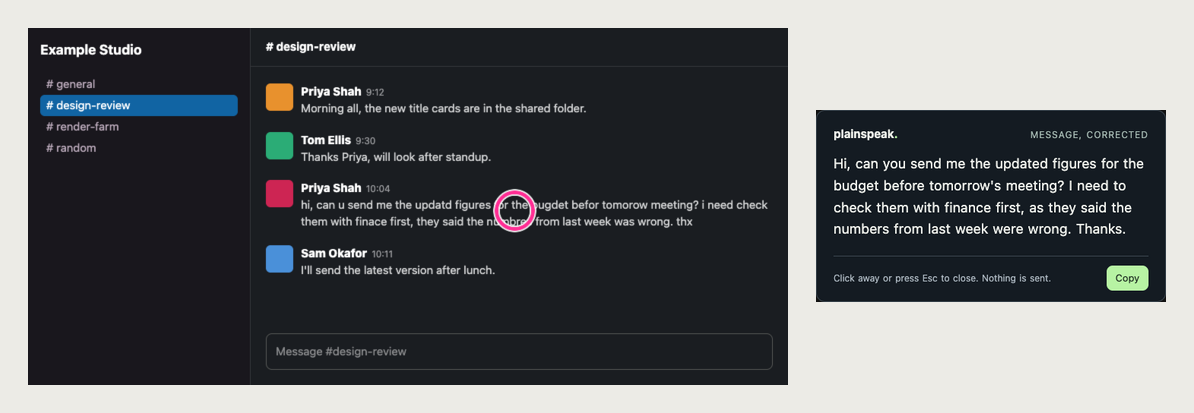
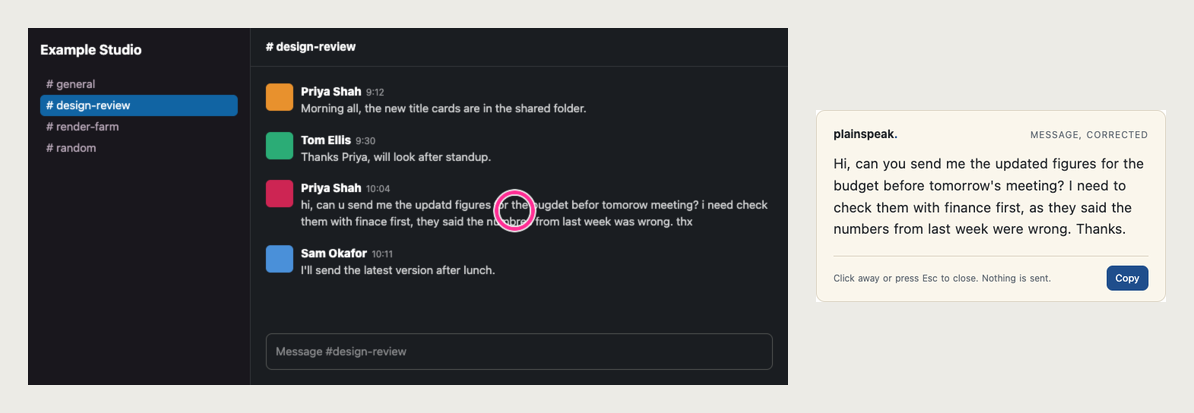
feat: light panel colours, the new default
- dark text on off-white with dark-blue labels, following the BDA style guide's colour advice (no green or red)
- choose Light, Dark or Match macOS under Panel colours in Settings; each answer carries the choice
- regenerate the README screenshots in the light theme and drop the dark-only limit

Changed region(s): [[0.6817, 0.2615, 0.9916, 0.7554]]

diff --git a/src/overlay.html b/src/overlay.html
@@ -3,15 +3,19 @@
 <style>
 /* Reading layout follows the British Dyslexia Association style guide: sans serif, line spacing of 1.5 or more,
    slightly wider letter and word spacing, short left-aligned paragraphs with clear gaps, bold rather than italics.
+   The light colours follow its colour advice too: dark text on off-white, and no green or red.
    The page itself is transparent so the app's borderless panel shows the rounded card. */
-:root{color-scheme:dark}*{box-sizing:border-box}html,body{margin:0;background:transparent}
-#card{min-height:100vh;padding:18px 22px 14px;background:#141b22;color:#eceee9;border:1px solid #3c4851;border-radius:12px;font:18px/1.6 system-ui,sans-serif;letter-spacing:.02em;word-spacing:.06em}
-header{display:flex;justify-content:space-between;align-items:baseline;gap:12px}strong.brand{font-size:15px;letter-spacing:0}small{color:#a6bab3;font-size:12px;letter-spacing:1px;text-transform:uppercase}
-#status{color:#b7f3a3;margin:14px 0 0}#status:empty{display:none}#result{margin-top:14px;overflow-wrap:anywhere}#result p,#result ul{margin:0 0 1.1em}#result ul{padding-left:1.2em}#result li{margin-bottom:.4em}#result strong{color:#b7f3a3;font-weight:600}
-footer{display:flex;justify-content:space-between;align-items:center;gap:12px;border-top:1px solid #3c4851;padding-top:12px;color:#acb7c0;font-size:12px;letter-spacing:0}
-button{background:#b7f3a3;color:#132018;border:0;border-radius:8px;padding:6px 12px;font:inherit;font-size:13px;cursor:pointer}button:disabled{opacity:.4}
+:root{color-scheme:light;--bg:#faf6ec;--text:#1f2328;--line:#d8d0bf;--muted:#5d6670;--accent:#1f4e8c;--button:#1f4e8c;--button-text:#fff}
+:root[data-theme=dark]{color-scheme:dark;--bg:#141b22;--text:#eceee9;--line:#3c4851;--muted:#a6bab3;--accent:#b7f3a3;--button:#b7f3a3;--button-text:#132018}
+@media (prefers-color-scheme:dark){:root[data-theme=system]{color-scheme:dark;--bg:#141b22;--text:#eceee9;--line:#3c4851;--muted:#a6bab3;--accent:#b7f3a3;--button:#b7f3a3;--button-text:#132018}}
+*{box-sizing:border-box}html,body{margin:0;background:transparent}
+#card{min-height:100vh;padding:18px 22px 14px;background:var(--bg);color:var(--text);border:1px solid var(--line);border-radius:12px;font:18px/1.6 system-ui,sans-serif;letter-spacing:.02em;word-spacing:.06em}
+header{display:flex;justify-content:space-between;align-items:baseline;gap:12px}strong.brand{font-size:15px;letter-spacing:0}strong.brand span{color:var(--accent)}small{color:var(--muted);font-size:12px;letter-spacing:1px;text-transform:uppercase}
+#status{color:var(--accent);margin:14px 0 0}#status:empty{display:none}#result{margin-top:14px;overflow-wrap:anywhere}#result p,#result ul{margin:0 0 1.1em}#result ul{padding-left:1.2em}#result li{margin-bottom:.4em}#result strong{color:var(--accent);font-weight:700}
+footer{display:flex;justify-content:space-between;align-items:center;gap:12px;border-top:1px solid var(--line);padding-top:12px;color:var(--muted);font-size:12px;letter-spacing:0}
+button{background:var(--button);color:var(--button-text);border:0;border-radius:8px;padding:6px 12px;font:inherit;font-size:13px;cursor:pointer}button:disabled{opacity:.4}
 </style>
-<main id="card"><header><strong class="brand">plainspeak<span style="color:#b7f3a3">.</span></strong><small id="mode">Personal overlay</small></header><p id="status" role="status">Reading…</p><div id="result"></div><footer><span>Click away or press Esc to close. Nothing is sent.</span><button id="copy" disabled>Copy</button></footer></main>
+<main id="card"><header><strong class="brand">plainspeak<span>.</span></strong><small id="mode">Personal overlay</small></header><p id="status" role="status">Reading…</p><div id="result"></div><footer><span>Click away or press Esc to close. Nothing is sent.</span><button id="copy" disabled>Copy</button></footer></main>
 <script>
 // Fragment credentials are not sent in the URL request or Referer.
 const params=new URLSearchParams(location.hash.slice(1)),id=params.get('id'),token=params.get('token');
@@ -38,6 +42,7 @@ function render(value,mode){
 }
 async function poll(){
  try{const r=await fetch('/result/'+id,{headers:{Authorization:'Bearer '+token}});const data=await r.json();if(!r.ok)throw Error(data.error);
+ document.documentElement.dataset.theme=data.theme||'light';
  document.getElementById('mode').textContent=data.mode==='draft'?'Your words, corrected':data.mode==='correct'?'Message, corrected':'What they mean';
  if(data.state!=='pending'){stopped=true;text=data.text;render(text,data.mode);status.textContent=data.state==='done'?'':'Needs attention';copy.disabled=data.state!=='done';if(data.state==='done'&&data.mode==='draft')bridge('copy',text)}
  else if(data.text&&data.text!==shown){shown=data.text;render(shown,data.mode);status.textContent='Writing…';fit()} // streamed partial answer

diff --git a/src/settings.html b/src/settings.html
@@ -2,7 +2,9 @@
 <html lang="en-GB"><meta charset="utf-8"><meta name="viewport" content="width=device-width,initial-scale=1"><title>Plainspeak settings</title>
 <style>
 /* Same look as the panel, and the same reading rules: sans serif, 1.6 line spacing, short blocks with clear gaps, bold not italics. */
-:root{color-scheme:dark;--bg:#141b22;--card:#1b242d;--field:#0f151b;--line:#3c4851;--text:#eceee9;--muted:#a6bab3;--accent:#b7f3a3;--bad:#ffb4a8}
+:root{color-scheme:light;--bg:#faf6ec;--card:#fffcf4;--field:#fdfaf2;--line:#d8d0bf;--text:#1f2328;--muted:#5d6670;--accent:#1f4e8c;--bad:#8a3d00}
+:root[data-theme=dark]{color-scheme:dark;--bg:#141b22;--card:#1b242d;--field:#0f151b;--line:#3c4851;--text:#eceee9;--muted:#a6bab3;--accent:#b7f3a3;--bad:#ffb4a8}
+@media (prefers-color-scheme:dark){:root[data-theme=system]{color-scheme:dark;--bg:#141b22;--card:#1b242d;--field:#0f151b;--line:#3c4851;--text:#eceee9;--muted:#a6bab3;--accent:#b7f3a3;--bad:#ffb4a8}}
 *{box-sizing:border-box}body{margin:0;background:var(--bg);color:var(--text);font:17px/1.6 system-ui,sans-serif;letter-spacing:.02em;word-spacing:.06em}
 main{max-width:780px;margin:0 auto;padding:24px 28px 60px}
 header{display:flex;justify-content:space-between;align-items:baseline;gap:16px;position:sticky;top:0;background:var(--bg);padding:12px 0;border-bottom:1px solid var(--line);z-index:2}
@@ -28,6 +30,7 @@ button.add{border-style:dashed;color:var(--accent);border-color:var(--accent)}bu
 
 <h2>When I read a message</h2><p class="help">How the panel explains a message (back side button).</p><div class="choices" id="read"></div>
 <h2>When I correct my own draft</h2><p class="help">How your selected text is rewritten (Control + Option + Command + D).</p><div class="choices" id="draft"></div>
+<h2>Panel colours</h2><p class="help">Light is dark text on off-white, which the British Dyslexia Association recommends.</p><div class="choices" id="theme"></div>
 <h2>Answer length</h2><p class="help">An upper limit. Styles are usually shorter.</p>
 <label class="row">Use at most <input type="number" class="short" id="max_lines" min="1" max="30"> lines</label>
 
@@ -64,7 +67,11 @@ function save(){
  },500);
 }
 
+const THEMES=[{id:'light',name:'Light',description:'Dark text on off-white.'},{id:'dark',name:'Dark',description:'Light text on dark blue-grey.'},{id:'system',name:'Match macOS',description:'Light or dark, as your Mac is set.'}];
 function renderChoices(){
+ document.documentElement.dataset.theme=model.theme;
+ const themes=document.getElementById('theme');themes.replaceChildren();
+ for(const t of THEMES)themes.append(el('label',{class:'choice'},el('input',{type:'radio',name:'theme',checked:model.theme===t.id,onchange:()=>{model.theme=t.id;renderChoices();save()}}),el('b',{textContent:t.name}),el('small',{textContent:t.description})));
  for(const kind of['read','draft']){
   const box=document.getElementById(kind);box.replaceChildren();
   for(const s of styles[kind])box.append(el('label',{class:'choice'},

diff --git a/src/service.ts b/src/service.ts
@@ -13,7 +13,7 @@ const input = z.object({
 }).strict().refine(v => v.text?.trim() || v.image_base64, 'Capture needs text or a PNG');
 /** One capture handed to an engine. Each engine builds its own prompt from it. */
 export type Job = { cap: Capture & { context?: boolean }; rules: Resolved; image?: Buffer };
-export type Result = { request_id: string; state: 'pending' | 'done' | 'error'; mode: string; text?: string; created: number };
+export type Result = { request_id: string; state: 'pending' | 'done' | 'error'; mode: string; text?: string; created: number; theme: string };
 
 /** Loopback service: an owner-only token also blocks requests from arbitrary web pages. */
 export async function createService(root: string, notify: (id: string, job: Job) => Promise<void>, port = 8790, local = join(root, '.local')) {
@@ -75,9 +75,10 @@ export async function createService(root: string, notify: (id: string, job: Job)
         const cap = input.parse(JSON.parse(Buffer.concat(chunks).toString()));
         if ([...pending.values()].some(v => v.state === 'pending')) return json({ error: 'A capture is already processing. Wait for its result.' }, 429);
         if (cap.mode === 'draft' && !cap.text?.trim()) return json({ error: 'Select your own draft text before using the draft hotkey.' }, 400);
-        const rules = resolve(toRulesFile(await loadSettings(local)), cap);
+        const settings = await loadSettings(local);
+        const rules = resolve(toRulesFile(settings), cap);
         const id = crypto.randomUUID();
-        const item: Result = { request_id: id, state: 'pending', mode: cap.mode, created: Date.now() };
+        const item: Result = { request_id: id, state: 'pending', mode: cap.mode, created: Date.now(), theme: settings.theme };
         let bytes: Buffer | undefined;
         if (cap.image_base64) {
           if (!/^[A-Za-z0-9+/]+={0,2}$/.test(cap.image_base64)) return json({ error: 'Invalid base64 PNG' }, 400);

diff --git a/src/service.test.ts b/src/service.test.ts
@@ -92,3 +92,12 @@ test('partial text is visible while pending, and an engine failure ends the requ
  expect(await read(request_id)).toMatchObject({state:'error',text:'The Claude session stopped before answering. Try again.'});
  expect((await f.post(capture)).status).toBe(202);
 });
+
+test('each answer carries the panel colours chosen in settings',async()=>{
+ const f=await fixture(); const auth={Authorization:'Bearer '+f.service.token};
+ const read=async()=>{const {request_id}=await (await f.post(capture)).json(); const r=await (await fetch(f.url+'/result/'+request_id,{headers:auth})).json(); await f.service.show(request_id,'ok'); return r.theme;};
+ expect(await read()).toBe('light');
+ const {settings}=await (await fetch(f.url+'/settings',{headers:auth})).json();
+ await fetch(f.url+'/settings',{method:'PUT',headers:{...auth,'Content-Type':'application/json'},body:JSON.stringify({...settings,theme:'dark'})});
+ expect(await read()).toBe('dark');
+});

diff --git a/src/settings.test.ts b/src/settings.test.ts
@@ -61,3 +61,12 @@ test('mistakes are refused with plain messages', async () => {
     await expect(saveSettings(dir, { ...DEFAULT_SETTINGS, surprise: true })).rejects.toThrow();
   } finally { await rm(dir, { recursive: true, force: true }); }
 });
+
+test('panel colours default to light and only accept the three choices', async () => {
+  expect(DEFAULT_SETTINGS.theme).toBe('light');
+  const dir = await mkdtemp(join(tmpdir(), 'plainspeak-settings-'));
+  try {
+    expect((await saveSettings(dir, { ...DEFAULT_SETTINGS, theme: 'system' })).theme).toBe('system');
+    await expect(saveSettings(dir, { ...DEFAULT_SETTINGS, theme: 'neon' })).rejects.toThrow();
+  } finally { await rm(dir, { recursive: true, force: true }); }
+});

diff --git a/app/Sources/Plainspeak/SettingsWindow.swift b/app/Sources/Plainspeak/SettingsWindow.swift
@@ -14,7 +14,7 @@ final class SettingsWindow: NSObject, NSWindowDelegate {
             w.title = "Plainspeak Settings"
             w.isReleasedWhenClosed = false
             w.minSize = NSSize(width: 520, height: 400)
-            w.backgroundColor = NSColor(calibratedRed: 0.08, green: 0.11, blue: 0.13, alpha: 1)
+            w.backgroundColor = NSColor(calibratedRed: 0.98, green: 0.965, blue: 0.925, alpha: 1) // the light theme's off-white
             w.contentView = WKWebView(frame: w.contentRect(forFrameRect: w.frame))
             w.center()
             w.delegate = self

diff --git a/src/settings.ts b/src/settings.ts
@@ -31,6 +31,8 @@ const rule = z.object({
 }).strict();
 
 export const settingsSchema = z.object({
+  // Light is dark text on off-white, as the BDA style guide prefers; system follows macOS.
+  theme: z.enum(['light', 'dark', 'system']).default('light'),
   read_style: z.string().default('plain'),
   draft_style: z.string().default('clean'),
   max_lines: z.number().int().min(1).max(30).default(6),

diff --git a/README.md b/README.md
@@ -18,8 +18,8 @@ on the screen you already have open.
   point, what they want from you, the deadline and anything unclear.
 - **Read across languages.** Awkward wording from someone writing in a second
   language is read for what they meant.
-- **Easier to read.** Short parts, bold labels and clear gaps between them, using
-  the spacing, font and layout advice in the British Dyslexia Association's
+- **Easier to read.** Short parts, bold labels and clear gaps between them, in dark
+  text on off-white, following the British Dyslexia Association's
   [style guide](https://cdn.bdadyslexia.org.uk/uploads/documents/Advice/style-guide/BDA-Style-Guide-2023.pdf?v=1680514568).
 - **Your style.** ADHD-friendly, key points, one line, or a style you write
   yourself. Different styles for different apps, channels or people.
@@ -159,7 +159,7 @@ around ten seconds, because it really searches.
 
 ## Styles and rules
 
-![The settings window: reading styles, draft styles, answer length and custom styles](docs/images/settings.png)
+![The settings window: reading styles, draft styles and panel colours](docs/images/settings.png)
 
 Open **Settings…** from the **p.** menu. Every change saves itself and applies from
 your next capture. There is no Save button and nothing to restart. For a quick
@@ -173,6 +173,9 @@ switch, use **Reading style** or **Draft style** in the menu.
 | **One line:** a single sentence | **Friendlier:** warmer, same meaning |
 | **How it sounds:** the likely tone and other readings | **More professional:** client-ready, no filler |
 | **Explain simply:** jargon and idioms spelled out | **Slack message:** short and casual |
+
+**Panel colours.** Light, the default, is dark text on off-white, as the BDA guide
+recommends. Dark and Match macOS are there too.
 
 **Custom styles.** Describe in plain words how you want answers to look, for
 example "Lead with what I need to do. Use short bullet points." Saved styles join
@@ -279,8 +282,6 @@ Everything personal lives in `~/.plainspeak`, outside the repo. Set
 - macOS only, Claude only.
 - Usage counts against your plan's limits. Context lookups use more.
 - Rules about people and threads depend on what Claude can see in the screenshot.
-- The panel is dark only. The BDA guide prefers dark text on an off-white
-  background, which is not offered yet.
 - The app is signed for your own machine, not notarised, so a built copy shared
   with someone else shows macOS security warnings. They should build it themselves.
 
